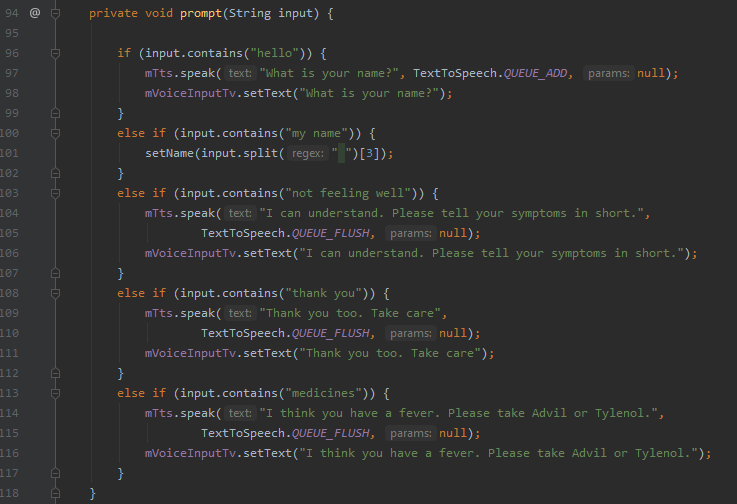
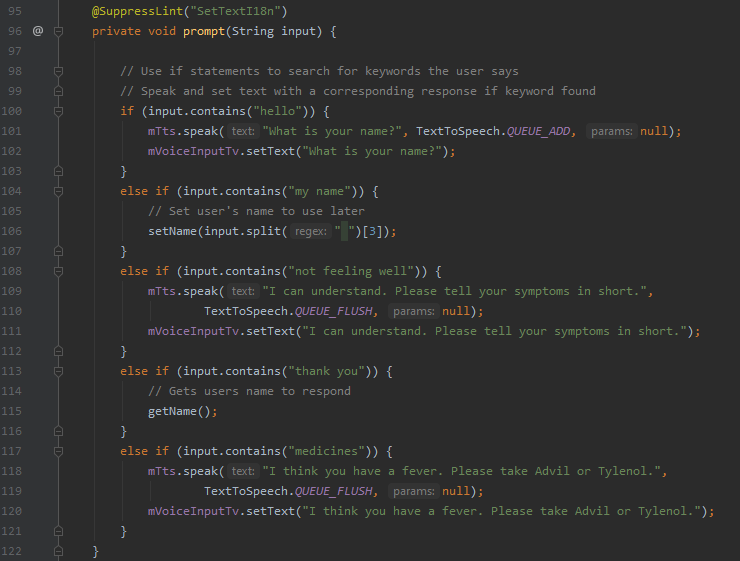
Screenshots

diff --git a/Source/Mobile-ICP-13/app/src/main/java/com/vijaya/speechtotext/MainActivity.java b/Source/Mobile-ICP-13/app/src/main/java/com/vijaya/speechtotext/MainActivity.java
@@ -25,6 +25,8 @@ public class MainActivity extends AppCompatActivity {
     private TextToSpeech mTts;
     private SharedPreferences preferences;
     private SharedPreferences.Editor editor;
+    public static String NAME = " ";
+    public String name;
 
     @Override
     protected void onCreate(Bundle savedInstanceState) {
@@ -37,12 +39,16 @@ public class MainActivity extends AppCompatActivity {
         mTts = new TextToSpeech(getApplicationContext(), new TextToSpeech.OnInitListener() {
             @SuppressLint("SetTextI18n")
             @Override
+            // Check to see if text to speech loads successfully
             public void onInit(int status) {
+                // If there is no error
                 if (status == TextToSpeech.SUCCESS) {
                     mTts.setLanguage(Locale.US);
-                    mTts.speak("Hello, welcome to Text to Speech.", TextToSpeech.QUEUE_ADD,
+                    mTts.speak("Hello, welcome to Speech to Text", TextToSpeech.QUEUE_ADD,
                             null);
-                    mVoiceInputTv.setText("Hello, welcome to Text to Speech.");
+                    mVoiceInputTv.setText("Hello, welcome to Speech to Text.");
+
+                    // Display error message if text to speech does not load
                 } else if (status == TextToSpeech.ERROR) {
                     Toast.makeText(getApplicationContext(), "Error loading Text to Speech",
                             Toast.LENGTH_SHORT).show();
@@ -61,10 +67,12 @@ public class MainActivity extends AppCompatActivity {
     }
 
     private void startVoiceInput() {
+        // Display and settings for when user clicks on the mic to speak
         Intent intent = new Intent(RecognizerIntent.ACTION_RECOGNIZE_SPEECH);
         intent.putExtra(RecognizerIntent.EXTRA_LANGUAGE_MODEL, RecognizerIntent.LANGUAGE_MODEL_FREE_FORM);
         intent.putExtra(RecognizerIntent.EXTRA_LANGUAGE, Locale.getDefault());
         intent.putExtra(RecognizerIntent.EXTRA_PROMPT, "Hello, How can I help you?");
+        // Error checking for voice input
         try {
             startActivityForResult(intent, REQ_CODE_SPEECH_INPUT);
         } catch (ActivityNotFoundException a) {
@@ -77,6 +85,8 @@ public class MainActivity extends AppCompatActivity {
     protected void onActivityResult(int requestCode, int resultCode, Intent data) {
         super.onActivityResult(requestCode, resultCode, data);
 
+        // When a user uses the mic, display the speech as text
+        // Use prompt function for specific responses
         switch (requestCode) {
             case REQ_CODE_SPEECH_INPUT: {
                 if (resultCode == RESULT_OK && null != data) {
@@ -93,11 +103,14 @@ public class MainActivity extends AppCompatActivity {
     @SuppressLint("SetTextI18n")
     private void prompt(String input) {
 
+        // Use if statements to search for keywords the user says
+        // Speak and set text with a corresponding response if keyword found
         if (input.contains("hello")) {
             mTts.speak("What is your name?", TextToSpeech.QUEUE_ADD, null);
             mVoiceInputTv.setText("What is your name?");
         }
         else if (input.contains("my name")) {
+            // Set user's name to use later
             setName(input.split(" ")[3]);
         }
         else if (input.contains("not feeling well")) {
@@ -106,9 +119,8 @@ public class MainActivity extends AppCompatActivity {
             mVoiceInputTv.setText("I can understand. Please tell your symptoms in short.");
         }
         else if (input.contains("thank you")) {
-            mTts.speak("Thank you too. Take care",
-                    TextToSpeech.QUEUE_FLUSH, null);
-            mVoiceInputTv.setText("Thank you too. Take care");
+            // Gets users name to respond
+            getName();
         }
         else if (input.contains("medicines")) {
             mTts.speak("I think you have a fever. Please take Advil or Tylenol.",
@@ -118,12 +130,27 @@ public class MainActivity extends AppCompatActivity {
     }
 
     @SuppressLint("SetTextI18n")
+    // Set name using shared preference
     private void setName(String name) {
-        preferences = getSharedPreferences("prefs",0);
+        preferences = getSharedPreferences("preferences",0);
         editor = preferences.edit();
-        editor.putString("name", name).apply();
+        editor.putString(NAME, name).apply();
 
+        // Speak and set text using the users name in the response
         mTts.speak("Good to meet you " + name, TextToSpeech.QUEUE_FLUSH, null);
         mVoiceInputTv.setText("Good to meet you " + name);
+    }
+
+    @SuppressLint("SetTextI18n")
+    // Retrieve name using shared preference
+    private void getName() {
+        preferences = getSharedPreferences("preferences",0);
+        name = preferences.getString(NAME, " ");
+
+        // Speak and set text using the users name in the response
+        mTts.speak("Thank you too " + name + ", Take care.",
+                TextToSpeech.QUEUE_FLUSH, null);
+        mVoiceInputTv.setText("Thank you too " + name + ", Take care.");
+
     }
 }
